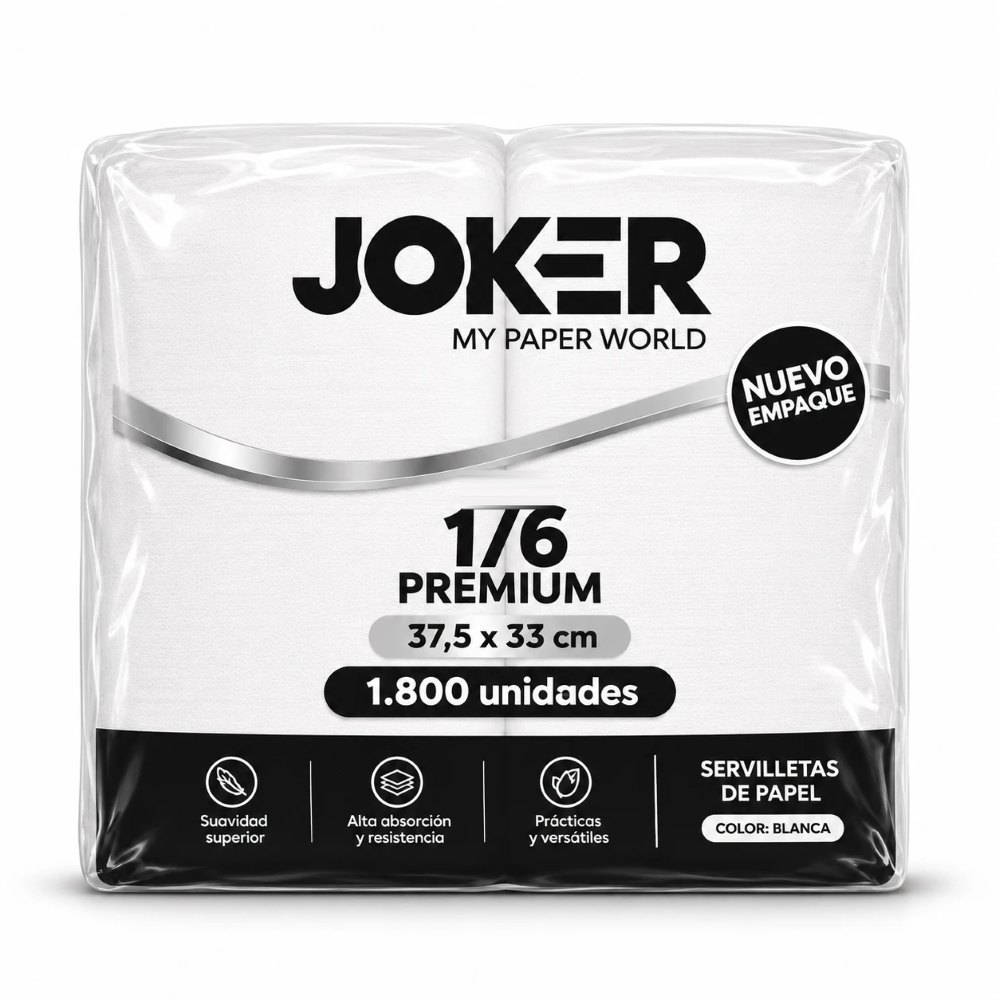
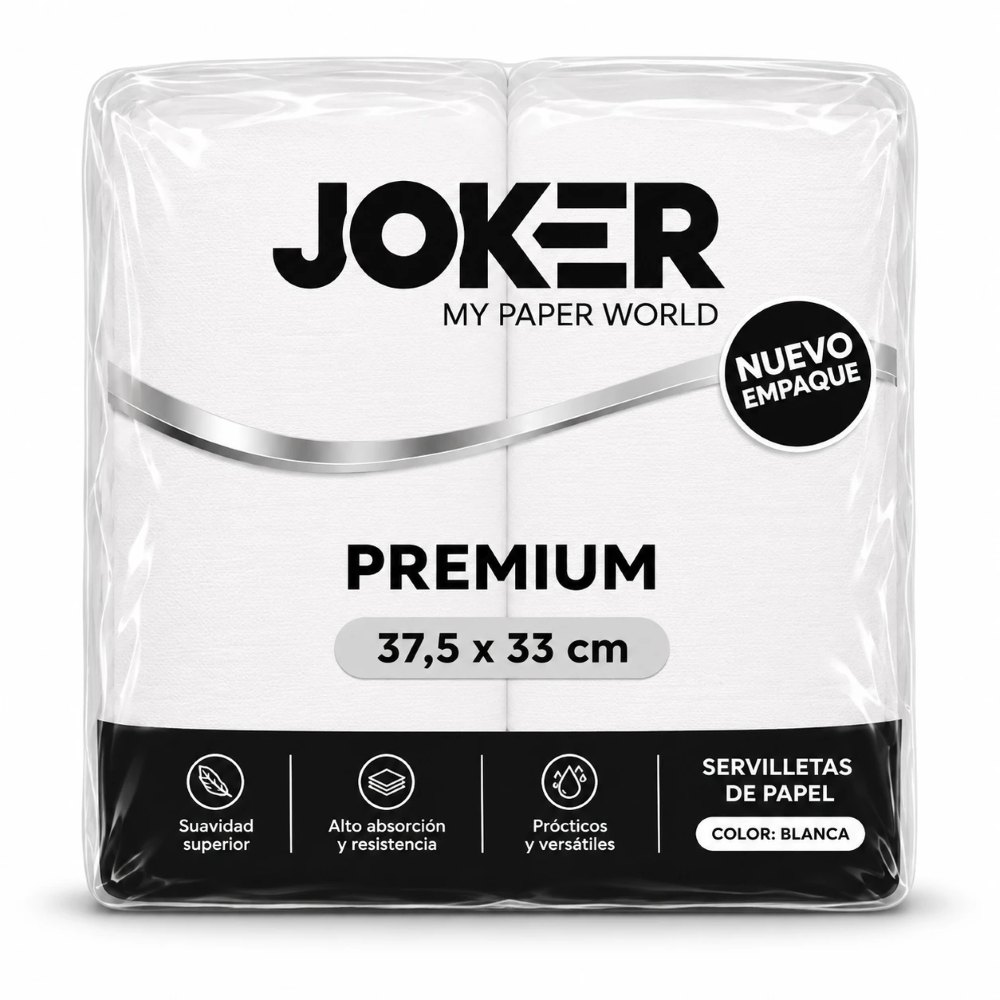
Servilletas 37,5 x 33: fotos de los envases nuevos
- Blanca, color natural, negra y roja (OLV-SER-001…004) con el envase «Premium 37,5 x 33 cm»

Changed region(s): [[0.062, 0.031, 0.93, 0.93]]

diff --git a/public/index.html b/public/index.html
@@ -67,7 +67,7 @@
 
   <!-- Estilos de la marca OLIVO -->
   <!-- ?v= = versión: cambiarla en cada entrega para que los navegadores no usen copias viejas -->
-  <link rel="stylesheet" href="css/styles.css?v=2026-11-16-8">
+  <link rel="stylesheet" href="css/styles.css?v=2026-11-16-9">
 </head>
 <body class="bg-[#F8FAF9] text-[#1A1F1C] min-h-screen flex flex-col font-body antialiased">
 
@@ -192,9 +192,9 @@
   <div id="toastContainer" class="fixed z-50 flex flex-col gap-2 pointer-events-none no-print left-4 right-4 bottom-4 sm:left-auto sm:bottom-auto sm:top-6 sm:right-6 sm:max-w-sm" aria-live="polite"></div>
 
   <!-- DATOS Y LÓGICA -->
-  <script src="js/data.js?v=2026-11-16-8"></script>
-  <script src="js/data-servilletas.js?v=2026-11-16-8"></script>
-  <script src="js/app.js?v=2026-11-16-8"></script>
+  <script src="js/data.js?v=2026-11-16-9"></script>
+  <script src="js/data-servilletas.js?v=2026-11-16-9"></script>
+  <script src="js/app.js?v=2026-11-16-9"></script>
 
 </body>
 </html>

diff --git a/public/js/data-servilletas.js b/public/js/data-servilletas.js
@@ -27,7 +27,12 @@
   // Olivo (16 nov): sin «Pack» ni «1/6 / 1/8»; 37,5 x 33 cm = caja 1.800 unidades, 40 x 40 cm = caja 1.200 unidades.
   const F_37 = 'Caja 1.800 unidades · 37,5 x 33 cm';
   const F_40 = 'Caja 1.200 unidades · 40 x 40 cm';
-  const s37 = (n, color) => nuevo(n, `Servilleta Joker Premium 37,5 x 33 cm ${color} (Caja 1.800 unidades)`, 'serv-37x33', F_37);
+  // 37,5 x 33 «Premium»: envases nuevos entregados por Olivo (16 nov). La foto lleva ?v=3.
+  const s37 = (n, color) => {
+    const p = nuevo(n, `Servilleta Joker Premium 37,5 x 33 cm ${color} (Caja 1.800 unidades)`, 'serv-37x33', F_37);
+    p.image = p.image.replace('?v=2', '?v=3');
+    return p;
+  };
   // 40 x 40 «Punta a Punta»: envases nuevos entregados por Olivo (16 nov). La foto lleva ?v=3.
   const s40 = (n, color) => {
     const p = nuevo(n, `Servilleta Joker Punta a Punta 40 x 40 cm ${color} (Caja 1.200 unidades)`, 'serv-40x40', F_40);

diff --git a/CLAUDE.md b/CLAUDE.md
@@ -74,7 +74,7 @@ Recorta el fondo, centra en 1000×1000 blanco, guarda `public/images/products/<c
 
 ## 3. Tareas pendientes para Claude Code (en orden)
 
-> **Hecho el 16 nov (3.ª ronda) — Servilletas y Hotel:** nueva línea **Servilletas** (8.ª categoría, `servilletas`) en **`public/js/data-servilletas.js`**, que se carga entre `data.js` y `app.js` (archivo aparte para que regenerar `data.js` desde el lienzo no la borre). 12 productos Joker nuevos `OLV-SER-001…012` (fotos en `images/products/servilletas/`) más las 6 servilletas que estaban en Limpieza (`OLV-ASE-011, 012, 031–034`, conservan SKU y foto). Menú lateral por medida: **37,5 x 33 cm** (caja 1.800 unidades) → **40 x 40 cm** (caja 1.200 unidades) → otras medidas (cóctel, mesa y lunch). Por pedido de Olivo no se usa la palabra «Pack» ni «1/6 / 1/8» en nombres ni formatos, y se borró «PACK» de las fotos de los envases. Las 40 x 40 Joker usan los envases nuevos «Punta a Punta» (blanca, negra, roja, burdeo, rosa `OLV-SER-013`, amarillo suave, verde y azul). Se eliminaron por repetidas `OLV-SER-011` (azul marino), `OLV-ASE-011` (blanca) y `OLV-ASE-012` (negra Gourmet): no reutilizar esos SKU. En Limpieza la subcategoría pasa a «Papel jumbo y papel toalla». Portada: tarjeta Servilletas a todo el ancho (`images/cat-servilletas.jpg`), textos «Ocho líneas» calculados con `lineasTexto()`, **Hotel** agregado al atajo por tipo de negocio, y el **banner 2 ya no es sushi**: es «Servilletas Joker» con fondo claro (`#FCF9F3`), muestrario `images/hero-servilletas.jpg` (solo desde 768 px; en celular se muestran 7 cuadritos de color) y botón «Cotiza con nosotros» que abre la línea Servilletas. Los puntos del carrusel cambian de color según `data-tono` del banner.
+> **Hecho el 16 nov (3.ª ronda) — Servilletas y Hotel:** nueva línea **Servilletas** (8.ª categoría, `servilletas`) en **`public/js/data-servilletas.js`**, que se carga entre `data.js` y `app.js` (archivo aparte para que regenerar `data.js` desde el lienzo no la borre). 12 productos Joker nuevos `OLV-SER-001…012` (fotos en `images/products/servilletas/`) más las 6 servilletas que estaban en Limpieza (`OLV-ASE-011, 012, 031–034`, conservan SKU y foto). Menú lateral por medida: **37,5 x 33 cm** (caja 1.800 unidades) → **40 x 40 cm** (caja 1.200 unidades) → otras medidas (cóctel, mesa y lunch). Por pedido de Olivo no se usa la palabra «Pack» ni «1/6 / 1/8» en nombres ni formatos, y se borró «PACK» de las fotos de los envases. Las 37,5 x 33 usan los envases nuevos «Premium» (blanca, natural, negra y roja) y las 40 x 40 Joker los envases nuevos «Punta a Punta» (blanca, negra, roja, burdeo, rosa `OLV-SER-013`, amarillo suave, verde y azul). Se eliminaron por repetidas `OLV-SER-011` (azul marino), `OLV-ASE-011` (blanca) y `OLV-ASE-012` (negra Gourmet): no reutilizar esos SKU. En Limpieza la subcategoría pasa a «Papel jumbo y papel toalla». Portada: tarjeta Servilletas a todo el ancho (`images/cat-servilletas.jpg`), textos «Ocho líneas» calculados con `lineasTexto()`, **Hotel** agregado al atajo por tipo de negocio, y el **banner 2 ya no es sushi**: es «Servilletas Joker» con fondo claro (`#FCF9F3`), muestrario `images/hero-servilletas.jpg` (solo desde 768 px; en celular se muestran 7 cuadritos de color) y botón «Cotiza con nosotros» que abre la línea Servilletas. Los puntos del carrusel cambian de color según `data-tono` del banner.
 
 > **Hecho el 12 nov — cambios pedidos por el dueño de Olivo (pantallazos):** logo solo «OLIVO»; titular «…en un solo proveedor.» con bajada para restaurantes, cafeterías y hoteles; la tarjeta «Condiciones comerciales» pasa a **«Horarios de ruta»** con la tabla de días por sector (13 sectores, ver regla 2) y la franja superior y el pie enlazan a ella («Ver días por sector», `scrollToRuta()`); en la cotización, el recuadro «Tu lista» dice «Un asesor comercial se pondrá en contacto contigo a la brevedad para enviarte la cotización y responder a tus requerimientos.» (sin horario de despacho; misma frase en la confirmación y en el correo al cliente); la etiqueta «Ver otra línea» del catálogo pasa a **«Categorías»**; se quitó de la ficha el recuadro rojo «Sin precios públicos…»; nuevo tipo de negocio «Hotel». **16 nov:** se quitó de la portada la sección «Guías para tu cocina» (las URLs SEO de guías siguen planificadas en el lienzo, pero no se muestran en el portal). En todo el sitio se dice **«asesor comercial»**, nunca «ejecutivo» (portada, catálogo, ficha, cotización, confirmación, vista del correo y correo al cliente). **WhatsApp revisado (16 nov):** 4 botones, todos a `wa.me/56977236128` (en WhatsApp aparece como «Olivo»): (1) confirmación «Enviar solicitud por WhatsApp», va primero bajo el título, con el mensaje completo (código, contacto, teléfono, correo, local, RUT, sector, tipo de negocio, productos «cantidad × nombre [SKU]» hasta 30 y comentarios); (2) catálogo sin resultados «Pedirlo por WhatsApp» con el término buscado; (3) «¿Ya tienes tu lista de compras?» y (4) pie, con el saludo `WA_SALUDO` («Hola Olivo, vengo del portal mayorista…») para que Olivo sepa que el contacto viene del portal. Probado en escritorio y celular; en celular los avisos salen abajo y a lo ancho. **WhatsApp (16 nov, 2.ª ronda):** el mensaje va en bloques (*SOLICITUD DE COTIZACIÓN*, código, *DATOS DEL CLIENTE*, *PRODUCTOS* numerados «nombre — *cantidad* un. (SKU)», *COMENTARIOS*). Los enlaces salen de `waUrl()`: en celular `wa.me` (abre la app directo); en computador `web.whatsapp.com/send` (evita la página intermedia «Abrir aplicación / Continuar en WhatsApp Web»; si el cliente no tiene sesión en WhatsApp Web, primero le pide escanear el QR). El enlace del pie se ajusta al iniciar (`#footerWhatsapp`). **Atajo por tipo de negocio (16 nov):** solo Restaurante, Cafetería y Local de sushi (`BIZ` en `app.js`); se quitaron Pizzería y Minimarket. El formulario de cotización mantiene su lista completa de tipos de negocio. **Versión de archivos:** `index.html` carga `css/styles.css`, `js/data.js` y `js/app.js` con `?v=AAAA-MM-DD`; **cambiar esa fecha en cada entrega** para que los navegadores (y producción tras subir a cPanel) no usen copias viejas. **Ver el portal en local:** siempre por `http://localhost:5180` (servidor «olivo-portal» de `.claude/launch.json`); abrir `public/index.html` como archivo no carga el código y la página sale vacía. **Flujo de trabajo:** al terminar cada ronda de cambios se hace commit y push a GitHub (`origin/main`); otra persona sube los cambios a producción (cPanel) desde el repositorio. **WhatsApp:** la confirmación muestra «Enviar solicitud por WhatsApp», que abre `wa.me/56977236128` con el mensaje armado (código, datos del cliente, sector, productos con SKU y comentarios); el cliente solo presiona Enviar. Un envío 100 % automático (sin que el cliente toque nada) requiere la API oficial de WhatsApp Business (Meta) con cuenta de Olivo: pendiente de decisión. **Para producción (cPanel):** subir `index.html`, `js/app.js` y `api/cotizar.php`.
 
